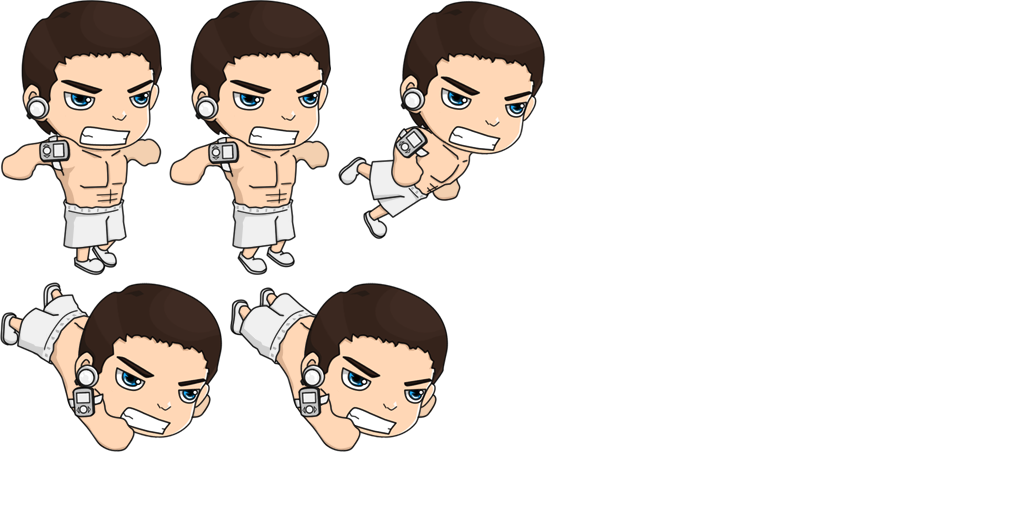
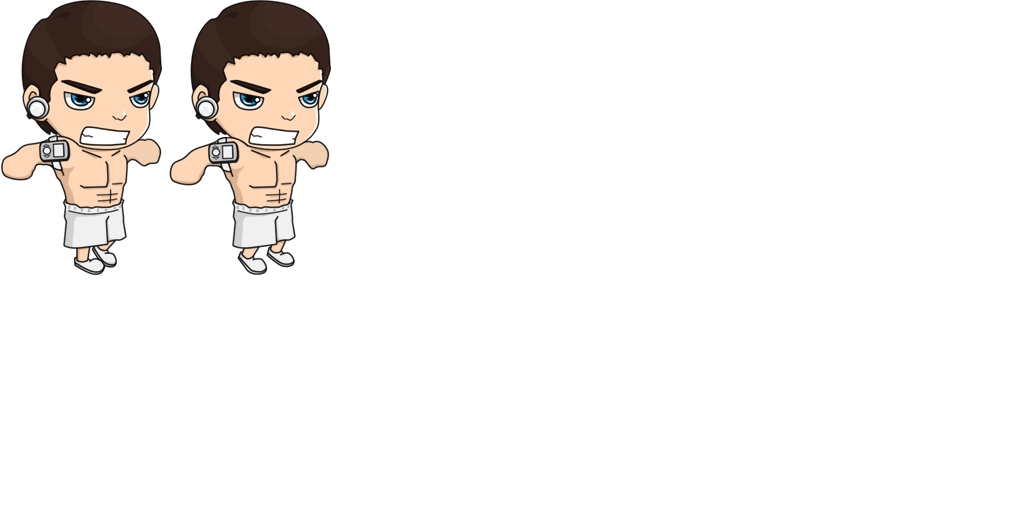
replaced swim down animation with floating animation for now.

Changed region(s): [[0.0, 0.5312, 0.4375, 0.9062], [0.3125, 0.0, 0.5312, 0.4688]]

diff --git a/Clay/Classes/Game/PlayerActions/PlayerActionSpin.m b/Clay/Classes/Game/PlayerActions/PlayerActionSpin.m
@@ -32,7 +32,7 @@
         [super startAction];
         [_parent endTurbo:false];
         [_parent setPlayerAnimation:PLAYER_ANIM_SPIN];
-        [_parent setPlayerAnimation:PLAYER_ANIM_SPIN_UP];
+        //[_parent setPlayerAnimation:PLAYER_ANIM_SPIN_UP];
         [[SoundEngine shared] playSound:@"waterSwimAction"];
         _duration = 10.75f;
     }
@@ -48,7 +48,7 @@
         } else {
             [_parent setPlayerAnimation:PLAYER_ANIM_RUNNING];            
         }
-        [_parent setPlayerAnimation:PLAYER_ANIM_SPIN_UP];
+        //[_parent setPlayerAnimation:PLAYER_ANIM_SPIN_UP];
     }
     _duration = 0.0f;
     _parent.hasGravity=true;
